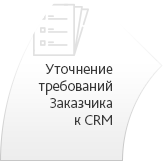
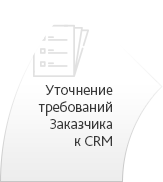
changes

diff --git a/resources/js/addition.js b/resources/js/addition.js
@@ -7,14 +7,28 @@ $(document).on('load', function(){
 
 $(function(){
 
+    var currentImg,
+        path,
+        pathClean;
 
 
     $(".round-advantages-section").on({
         mouseenter: function () {
             // console.log("one");
+
+            currentImg = $(this).find('img');
+
+            path = currentImg.attr('src');
+            pathClean = path.replace('.png', '') + '-hover.png';
+
+            currentImg.attr('src', pathClean);
+
         },
         mouseleave: function () {
             // console.log("two");
+            pathClean = path.replace('-hover', '');
+
+            currentImg.attr('src', pathClean);
         }
     });
 

diff --git a/resources/css/addition.css b/resources/css/addition.css
@@ -2539,6 +2539,7 @@ header {
 
 .bitrix-banner__sale {
     font-size: 88px;
+    font-family: "Bliss Pro";
     color: #ffffff;
     text-transform: uppercase;
     line-height: 1.134;
@@ -2998,6 +2999,7 @@ text-align: center;
 
 .round-advantages-section {
     position: absolute;
+    cursor: pointer;
 }
 
 .round-advantages-section:hover {
